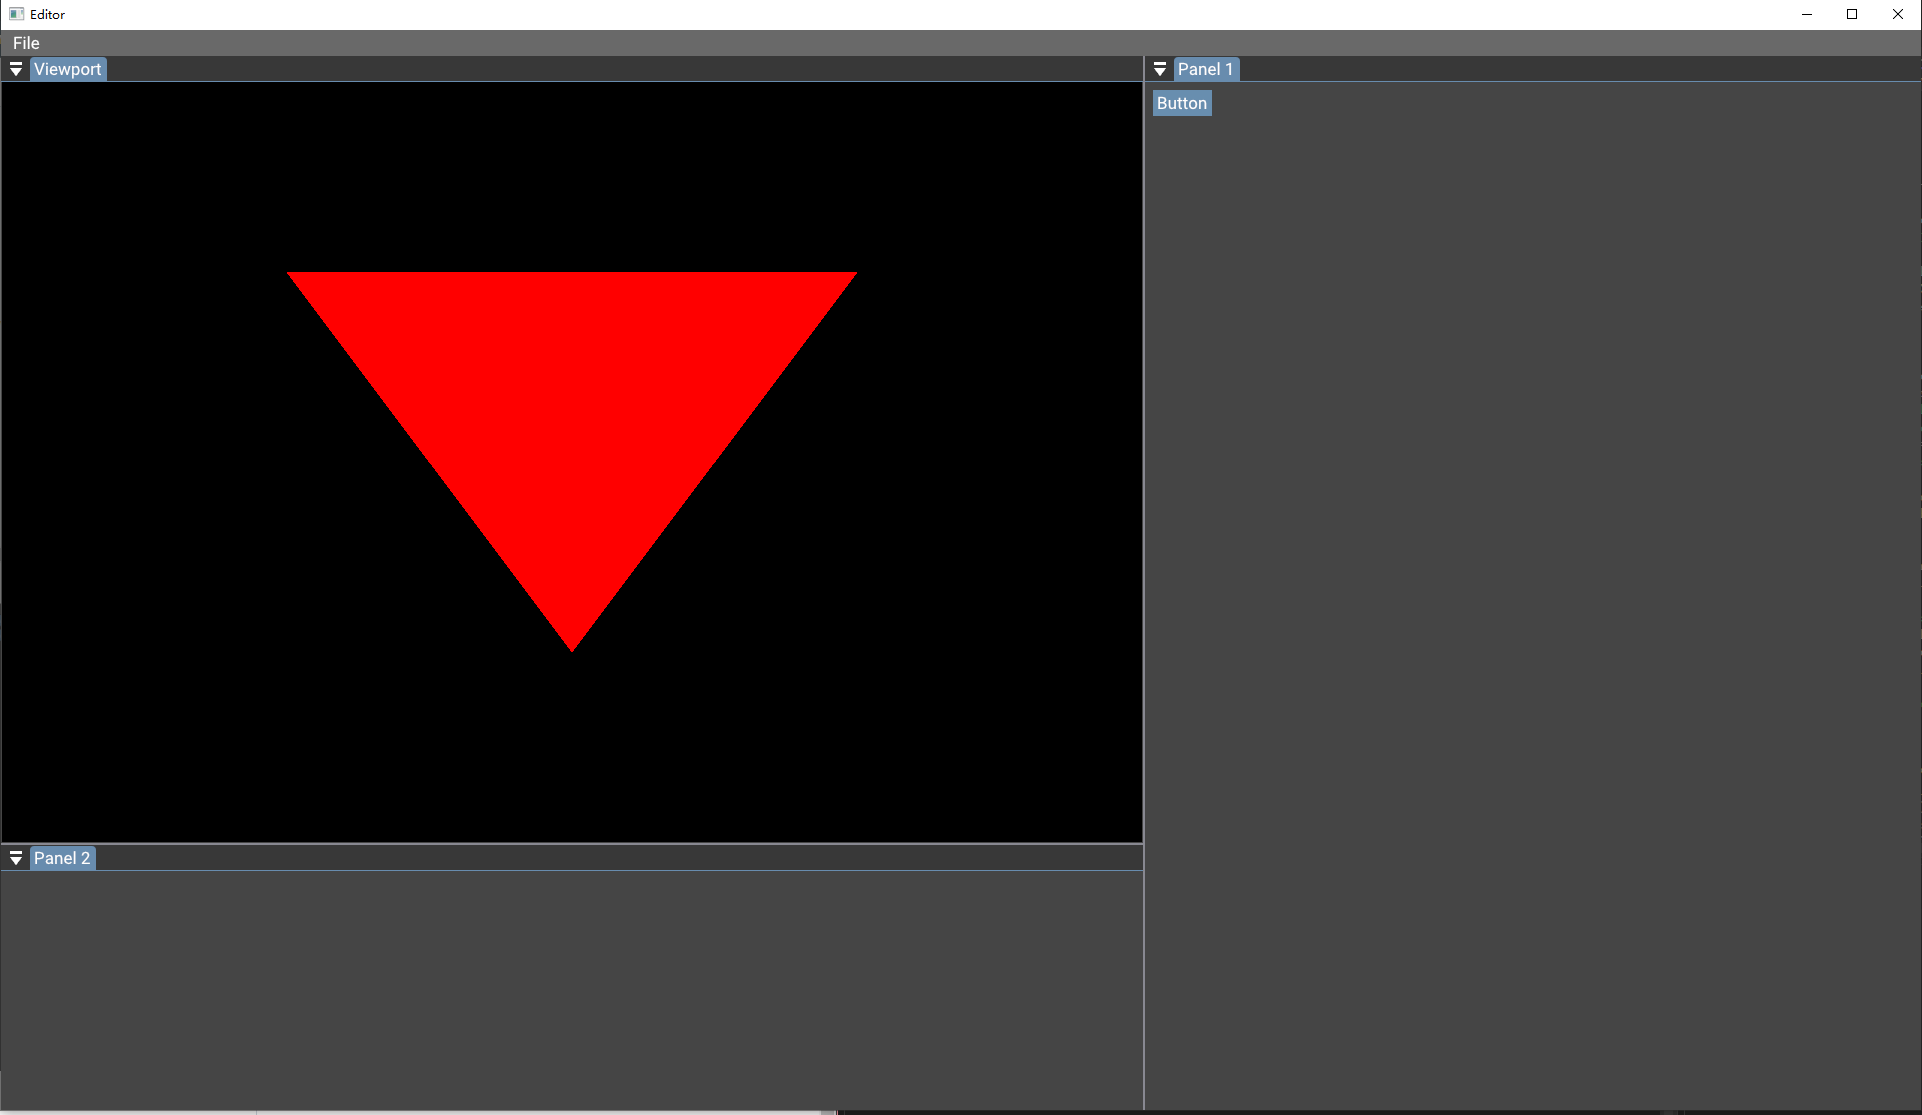
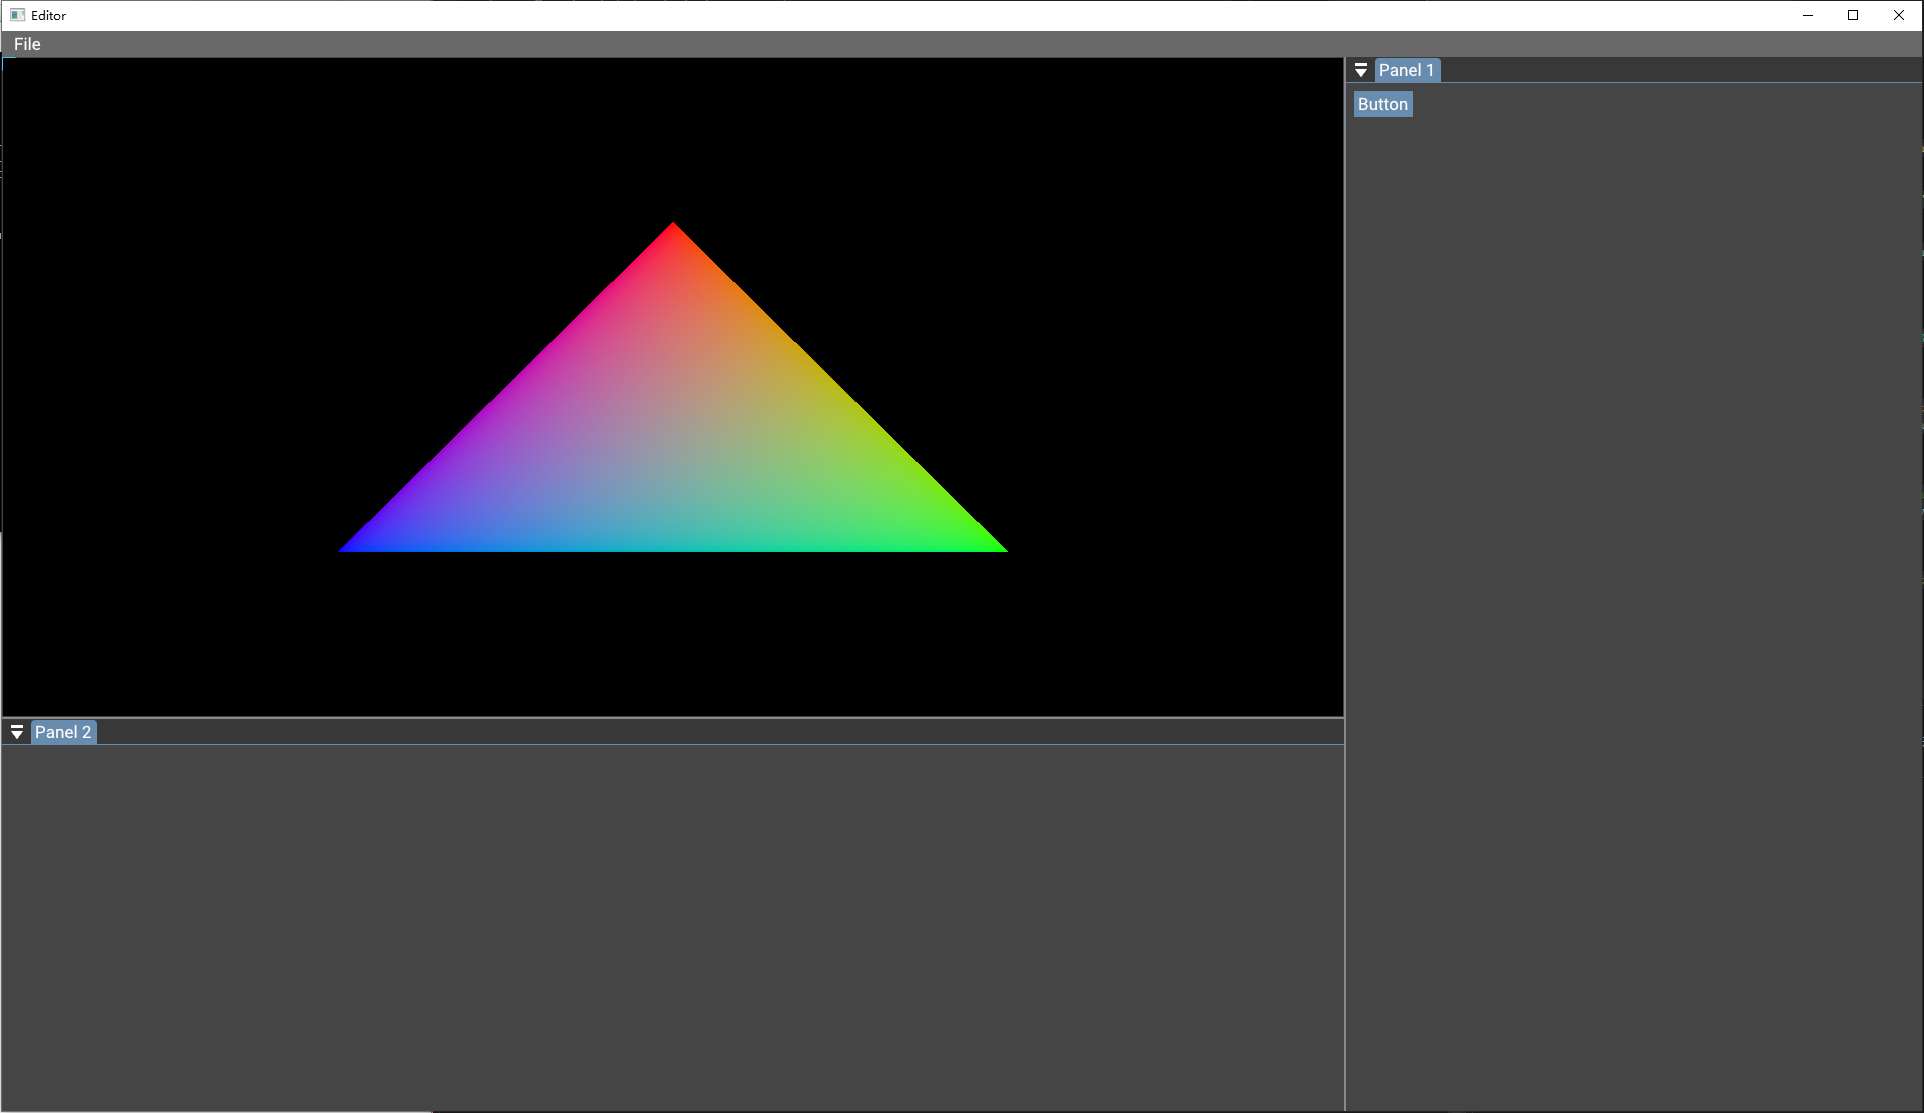
README update

diff --git a/README.md b/README.md
@@ -12,8 +12,16 @@ Example code
 ```C++
 // Delcare Resource
 auto color_buffer = render_graph.RegisterTransientResource();
- back_buffer_ = rhi.RHICreateTexture2D(1000,800,rhi::PixelFormat::RGBA);
- auto back_buffer_handle = render_graph.RegisterResource(back_buffer_.get());
+back_buffer_ = rhi.RHICreateTexture2D(1000,800,rhi::PixelFormat::RGBA);
+auto back_buffer_handle = render_graph.RegisterResource(back_buffer_.get());
+
+
+const std::vector<resource::Vertex> vertices = {
+{{0.0f, -0.5f}, {1.0f, 0.0f, 0.0f}},
+{{0.5f, 0.5f}, {0.0f, 1.0f, 0.0f}},
+{{-0.5f, 0.5f}, {0.0f, 0.0f, 1.0f}}
+};
+vb_ = renderer.LoadModel(vertices);
 
  // Triangle Pass
 {
@@ -44,6 +52,10 @@ auto color_buffer = render_graph.RegisterTransientResource();
 			BindGfxPipeline(cmd_buffer, rp.GetPipeline(0));
 			SetViewport(cmd_buffer, 0, 0, back_buffer_->GetWidth(), back_buffer_->GetHeight());
 			SetScissor(cmd_buffer, 0, 0, back_buffer_->GetWidth(), back_buffer_->GetHeight());
+			rhi::RHIVertexBuffer* vbs[] = { vb_.get() };
+			uint64_t offsets[] = { 0 };
+
+			BindVertexBuffers(cmd_buffer, 0, 1, vbs, offsets);
 			Draw(cmd_buffer, 3, 1);
 			EndRenderPass(cmd_buffer);
 		});
